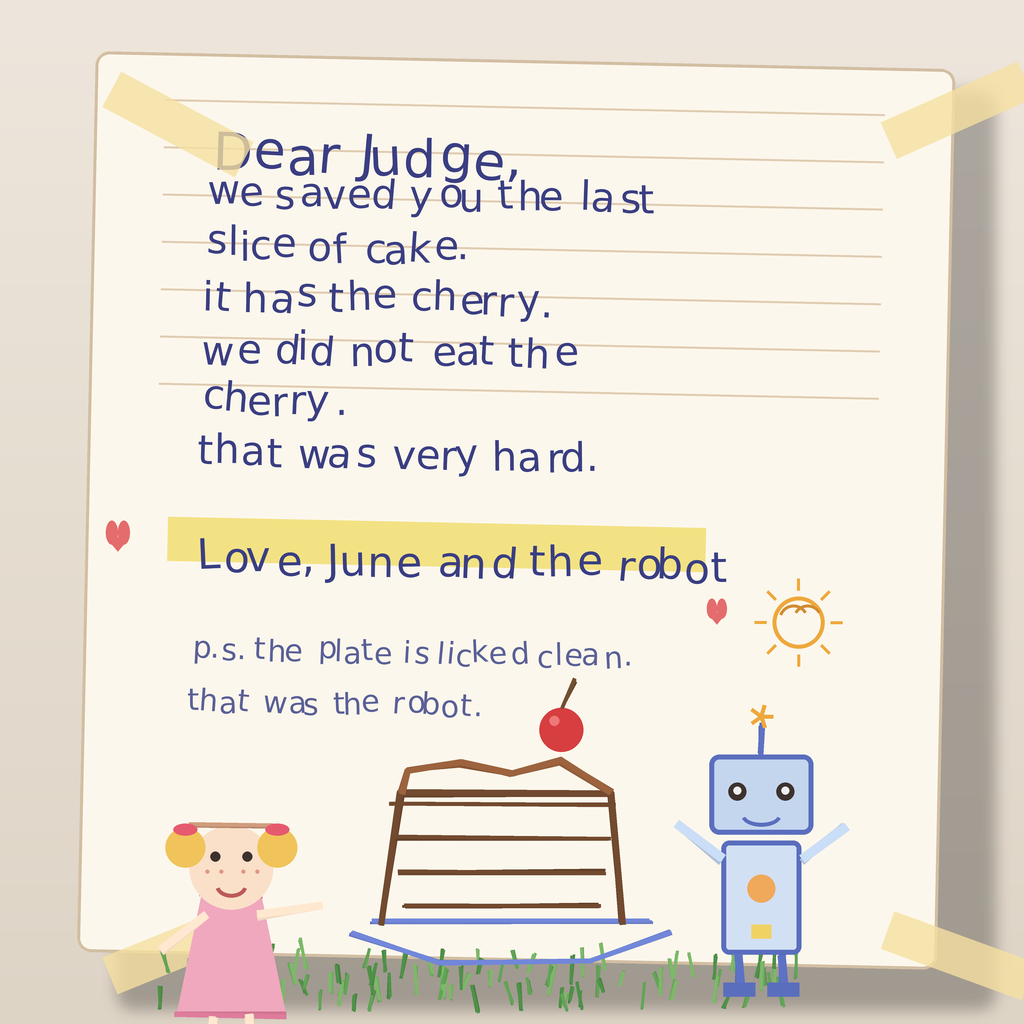
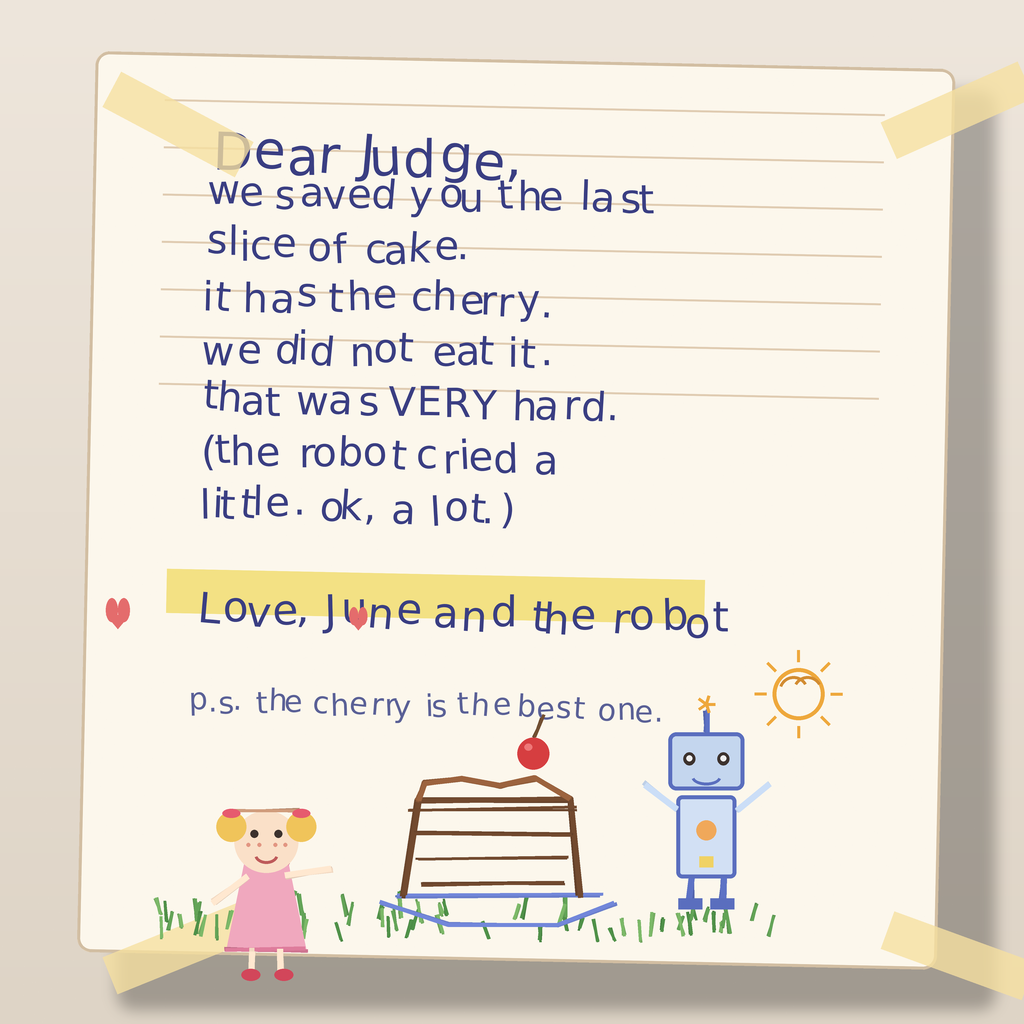
v7: tighter copy, robot cried, balanced band

Changed region(s): [[0.1562, 0.3125, 0.8438, 1.0], [0.0938, 0.5625, 0.125, 0.625], [0.0938, 0.5, 0.125, 0.5312]]

diff --git a/gen_entry.py b/gen_entry.py
@@ -93,18 +93,18 @@ hand_text(paper, (tx, ty), "Dear Judge,", 52 * S, ink)
 hand_text(paper, (tx, ty + lh), "we saved you the last", 40 * S, ink)
 hand_text(paper, (tx, ty + 2 * lh), "slice of cake.", 40 * S, ink)
 hand_text(paper, (tx, ty + 3 * lh), "it has the cherry.", 40 * S, ink)
-hand_text(paper, (tx, ty + 4 * lh), "we did not eat the", 40 * S, ink)
-hand_text(paper, (tx, ty + 5 * lh), "cherry.", 40 * S, ink)
-hand_text(paper, (tx, ty + 6 * lh), "that was very hard.", 40 * S, ink)
-sx, sy = tx, ty + 8 * lh
+hand_text(paper, (tx, ty + 4 * lh), "we did not eat it.", 40 * S, ink)
+hand_text(paper, (tx, ty + 5 * lh), "that was VERY hard.", 40 * S, ink)
+hand_text(paper, (tx, ty + 6 * lh), "(the robot cried a", 40 * S, ink)
+hand_text(paper, (tx, ty + 7 * lh), "little. ok, a lot.)", 40 * S, ink)
+sx, sy = tx, ty + 9 * lh
 f_sig = ImageFont.truetype(FONT_PATH, 42 * S)
 sig = "Love, June and the robot"
 hl = ImageDraw.Draw(paper)
 hl.rectangle([sx - 8 * S, sy + 8 * S, sx + f_sig.getlength(sig) + 14 * S, sy + 52 * S],
              fill=(255, 236, 130, 220))
 hand_text(paper, (sx, sy), sig, 42 * S, ink)
-hand_text(paper, (tx, ty + 10 * lh), "p.s. the plate is licked clean.", 30 * S, (90, 96, 150))
-hand_text(paper, (tx, ty + 11 * lh), "that was the robot.", 30 * S, (90, 96, 150))
+hand_text(paper, (tx, ty + 11 * lh), "p.s. the cherry is the best one.", 30 * S, (90, 96, 150))
 
 paper = paper.rotate(-1.2, resample=Image.BICUBIC, expand=True)
 px0, py0 = int(0.075 * WBig), int(0.05 * HBig)
@@ -127,14 +127,14 @@ for (tpx, tpy, ang) in [(int(0.10 * WBig), int(0.07 * HBig), -28),
 d = ImageDraw.Draw(img)
 
 # --- crayon drawing area (lower part of the paper) ---------------------------
-dy0 = int(0.565 * HBig)
+dy0 = int(0.635 * HBig)
 dcx = int(0.47 * WBig)
 
-# scribble grass
-for _ in range(90):
-    gx = dcx + rng.randint(-330, 330) * S
-    gy = dy0 + int(0.40 * HBig) + rng.randint(-20, 24) * S
-    crayon_line(d, [(gx, gy), (gx + rng.randint(-6, 6) * S, gy - rng.randint(14, 30) * S)],
+# scribble grass (inside the paper's lower band only)
+for _ in range(60):
+    gx = dcx + rng.randint(-320, 320) * S
+    gy = dy0 + int(0.27 * HBig) + rng.randint(-14, 16) * S
+    crayon_line(d, [(gx, gy), (gx + rng.randint(-6, 6) * S, gy - rng.randint(12, 24) * S)],
                 rng.choice([(96, 158, 84), (120, 178, 100), (76, 140, 70)]),
                 width=3, wobble=1.5)
 
@@ -150,84 +150,84 @@ for a in range(0, 360, 45):
            fill=(238, 168, 60), width=int(3 * S))
 
 # --- the cake: chunky chocolate slice with cherry ----------------------------
-ckx, cky = dcx + 20 * S, dy0 + int(0.22 * HBig)
-crayon_line(d, [(ckx - 150 * S, cky + 130 * S), (ckx - 60 * S, cky + 158 * S),
-                (ckx + 90 * S, cky + 158 * S), (ckx + 170 * S, cky + 128 * S)],
-            (110, 130, 210), width=5)
-crayon_line(d, [(ckx - 130 * S, cky + 118 * S), (ckx + 150 * S, cky + 118 * S)],
+ckx, cky = dcx + 10 * S, dy0 + int(0.155 * HBig)
+crayon_line(d, [(ckx - 110 * S, cky + 95 * S), (ckx - 44 * S, cky + 116 * S),
+                (ckx + 66 * S, cky + 116 * S), (ckx + 124 * S, cky + 94 * S)],
             (110, 130, 210), width=4)
-crayon_line(d, [(ckx - 120 * S, cky + 120 * S), (ckx - 100 * S, cky - 10 * S),
-                (ckx + 110 * S, cky - 10 * S), (ckx + 120 * S, cky + 120 * S)],
-            (110, 72, 46), width=6)
+crayon_line(d, [(ckx - 96 * S, cky + 87 * S), (ckx + 110 * S, cky + 87 * S)],
+            (110, 130, 210), width=3)
+crayon_line(d, [(ckx - 88 * S, cky + 88 * S), (ckx - 74 * S, cky - 8 * S),
+                (ckx + 80 * S, cky - 8 * S), (ckx + 88 * S, cky + 88 * S)],
+            (110, 72, 46), width=5)
 for ly in range(0, 4):
-    yy = cky + ly * 34 * S
-    crayon_line(d, [(ckx - 112 * S + ly * 5 * S, yy), (ckx + 114 * S - ly * 5 * S, yy)],
-                (110, 72, 46), width=4)
-crayon_line(d, [(ckx - 100 * S, cky - 10 * S), (ckx - 92 * S, cky - 34 * S),
-                (ckx - 40 * S, cky - 40 * S), (ckx + 10 * S, cky - 30 * S),
-                (ckx + 60 * S, cky - 42 * S), (ckx + 110 * S, cky - 12 * S)],
-            (150, 96, 60), width=6)
-chx, chy = ckx + 60 * S, cky - 74 * S
-d.ellipse([chx - 22 * S, chy - 22 * S, chx + 22 * S, chy + 22 * S], fill=(214, 62, 64))
-d.ellipse([chx - 12 * S, chy - 14 * S, chx - 2 * S, chy - 4 * S], fill=(238, 120, 120))
-crayon_line(d, [(chx, chy - 22 * S), (chx + 14 * S, chy - 50 * S)], (110, 76, 48), width=4)
+    yy = cky + ly * 25 * S
+    crayon_line(d, [(ckx - 82 * S + ly * 4 * S, yy), (ckx + 84 * S - ly * 4 * S, yy)],
+                (110, 72, 46), width=3)
+crayon_line(d, [(ckx - 74 * S, cky - 8 * S), (ckx - 68 * S, cky - 25 * S),
+                (ckx - 30 * S, cky - 30 * S), (ckx + 8 * S, cky - 22 * S),
+                (ckx + 44 * S, cky - 31 * S), (ckx + 80 * S, cky - 9 * S)],
+            (150, 96, 60), width=5)
+chx, chy = ckx + 42 * S, cky - 55 * S
+d.ellipse([chx - 16 * S, chy - 16 * S, chx + 16 * S, chy + 16 * S], fill=(214, 62, 64))
+d.ellipse([chx - 9 * S, chy - 10 * S, chx - 1 * S, chy - 3 * S], fill=(238, 120, 120))
+crayon_line(d, [(chx, chy - 16 * S), (chx + 10 * S, chy - 37 * S)], (110, 76, 48), width=3)
 
-# --- June, the kid, on the left ----------------------------------------------
-gx, gy = dcx - 250 * S, dy0 + int(0.30 * HBig)
-d.polygon([(gx - 55 * S, gy + 130 * S), (gx + 55 * S, gy + 130 * S),
-           (gx + 30 * S, gy + 10 * S), (gx - 30 * S, gy + 10 * S)],
+# --- June, the kid, on the left (smaller, fits the band) ----------------------
+gx, gy = dcx - 215 * S, dy0 + int(0.20 * HBig)
+d.polygon([(gx - 40 * S, gy + 95 * S), (gx + 40 * S, gy + 95 * S),
+           (gx + 22 * S, gy + 8 * S), (gx - 22 * S, gy + 8 * S)],
           fill=(240, 168, 190))
-crayon_line(d, [(gx - 55 * S, gy + 130 * S), (gx + 55 * S, gy + 130 * S)], (214, 120, 150), width=5)
-crayon_line(d, [(gx + 30 * S, gy + 10 * S), (gx - 30 * S, gy + 10 * S)], (214, 120, 150), width=4)
-d.ellipse([gx - 42 * S, gy - 60 * S, gx + 42 * S, gy + 24 * S], fill=(250, 224, 200))
-crayon_line(d, [(gx - 42 * S, gy - 60 * S), (gx + 42 * S, gy - 60 * S)], (200, 150, 120), width=4)
+crayon_line(d, [(gx - 40 * S, gy + 95 * S), (gx + 40 * S, gy + 95 * S)], (214, 120, 150), width=4)
+crayon_line(d, [(gx + 22 * S, gy + 8 * S), (gx - 22 * S, gy + 8 * S)], (214, 120, 150), width=3)
+d.ellipse([gx - 32 * S, gy - 44 * S, gx + 32 * S, gy + 18 * S], fill=(250, 224, 200))
+crayon_line(d, [(gx - 32 * S, gy - 44 * S), (gx + 32 * S, gy - 44 * S)], (200, 150, 120), width=3)
 for sx in (-1, 1):
-    px_ = gx + sx * 46 * S
-    d.ellipse([px_ - 20 * S, gy - 58 * S, px_ + 20 * S, gy - 18 * S], fill=(240, 196, 90))
-    d.ellipse([px_ - 12 * S, gy - 62 * S, px_ + 12 * S, gy - 50 * S], fill=(230, 90, 110))
+    px_ = gx + sx * 35 * S
+    d.ellipse([px_ - 15 * S, gy - 43 * S, px_ + 15 * S, gy - 13 * S], fill=(240, 196, 90))
+    d.ellipse([px_ - 9 * S, gy - 46 * S, px_ + 9 * S, gy - 37 * S], fill=(230, 90, 110))
 for sx in (-1, 1):
-    d.ellipse([gx + sx * 16 * S - 5 * S, gy - 34 * S, gx + sx * 16 * S + 5 * S, gy - 24 * S],
+    d.ellipse([gx + sx * 12 * S - 4 * S, gy - 25 * S, gx + sx * 12 * S + 4 * S, gy - 17 * S],
               fill=(60, 50, 46))
-for fx in (-24, -10, 12, 26):
-    d.ellipse([gx + fx * S - 2 * S, gy - 16 * S, gx + fx * S + 2 * S, gy - 12 * S],
+for fx in (-18, -7, 9, 19):
+    d.ellipse([gx + fx * S - 2 * S, gy - 12 * S, gx + fx * S + 2 * S, gy - 8 * S],
               fill=(226, 150, 130))
-d.arc([gx - 16 * S, gy - 12 * S, gx + 16 * S, gy + 12 * S], start=15, end=165,
-      fill=(190, 90, 90), width=int(4 * S))
-crayon_line(d, [(gx - 26 * S, gy + 30 * S), (gx - 70 * S, gy + 66 * S)], (250, 224, 200), width=8)
-crayon_line(d, [(gx + 26 * S, gy + 30 * S), (gx + 90 * S, gy + 20 * S)], (250, 224, 200), width=8)
-crayon_line(d, [(gx - 18 * S, gy + 130 * S), (gx - 22 * S, gy + 160 * S)], (250, 224, 200), width=8)
-crayon_line(d, [(gx + 18 * S, gy + 130 * S), (gx + 22 * S, gy + 160 * S)], (250, 224, 200), width=8)
-d.ellipse([gx - 34 * S, gy + 156 * S, gx - 8 * S, gy + 172 * S], fill=(210, 70, 90))
-d.ellipse([gx + 10 * S, gy + 156 * S, gx + 36 * S, gy + 172 * S], fill=(210, 70, 90))
+d.arc([gx - 12 * S, gy - 9 * S, gx + 12 * S, gy + 9 * S], start=15, end=165,
+      fill=(190, 90, 90), width=int(3 * S))
+crayon_line(d, [(gx - 20 * S, gy + 22 * S), (gx - 52 * S, gy + 48 * S)], (250, 224, 200), width=6)
+crayon_line(d, [(gx + 20 * S, gy + 22 * S), (gx + 66 * S, gy + 15 * S)], (250, 224, 200), width=6)
+crayon_line(d, [(gx - 13 * S, gy + 95 * S), (gx - 16 * S, gy + 117 * S)], (250, 224, 200), width=6)
+crayon_line(d, [(gx + 13 * S, gy + 95 * S), (gx + 16 * S, gy + 117 * S)], (250, 224, 200), width=6)
+d.ellipse([gx - 25 * S, gy + 114 * S, gx - 6 * S, gy + 126 * S], fill=(210, 70, 90))
+d.ellipse([gx + 8 * S, gy + 114 * S, gx + 27 * S, gy + 126 * S], fill=(210, 70, 90))
 
-# --- the robot, on the right ---------------------------------------------------
-rx, ry = dcx + 280 * S, dy0 + int(0.26 * HBig)
-crayon_line(d, [(rx, ry - 90 * S), (rx, ry - 120 * S)], (90, 110, 190), width=5)
+# --- the robot, on the right (smaller, fits the band) --------------------------
+rx, ry = dcx + 225 * S, dy0 + int(0.145 * HBig)
+crayon_line(d, [(rx, ry - 66 * S), (rx, ry - 88 * S)], (90, 110, 190), width=4)
 for a in range(0, 360, 72):
-    rr = 12 * S
-    d.line([(rx, ry - 128 * S), (rx + rr * math.cos(math.radians(a)), ry - 128 * S + rr * math.sin(math.radians(a)))],
-           fill=(238, 168, 60), width=int(4 * S))
-d.rounded_rectangle([rx - 52 * S, ry - 90 * S, rx + 52 * S, ry - 10 * S], radius=10 * S,
-                    fill=(196, 214, 238), outline=(90, 110, 190), width=int(5 * S))
+    rr = 9 * S
+    d.line([(rx, ry - 94 * S), (rx + rr * math.cos(math.radians(a)), ry - 94 * S + rr * math.sin(math.radians(a)))],
+           fill=(238, 168, 60), width=int(3 * S))
+d.rounded_rectangle([rx - 38 * S, ry - 66 * S, rx + 38 * S, ry - 8 * S], radius=8 * S,
+                    fill=(196, 214, 238), outline=(90, 110, 190), width=int(4 * S))
 for sx in (-1, 1):
-    ex = rx + sx * 24 * S
-    d.ellipse([ex - 9 * S, ry - 62 * S, ex + 9 * S, ry - 44 * S], fill=(60, 50, 46))
-    d.ellipse([ex - 4 * S, ry - 58 * S, ex + 4 * S, ry - 50 * S], fill=(240, 240, 240))
-d.arc([rx - 20 * S, ry - 40 * S, rx + 20 * S, ry - 18 * S], start=15, end=165,
-      fill=(90, 110, 190), width=int(4 * S))
-d.rounded_rectangle([rx - 40 * S, ry - 4 * S, rx + 40 * S, ry + 110 * S], radius=8 * S,
-                    fill=(210, 224, 244), outline=(90, 110, 190), width=int(5 * S))
-d.ellipse([rx - 14 * S, ry + 30 * S, rx + 14 * S, ry + 58 * S], fill=(240, 168, 90))
-d.rectangle([rx - 10 * S, ry + 80 * S, rx + 10 * S, ry + 94 * S], fill=(240, 210, 100))
-crayon_line(d, [(rx - 40 * S, ry + 16 * S), (rx - 84 * S, ry - 20 * S)], (196, 214, 238), width=9)
-crayon_line(d, [(rx + 40 * S, ry + 16 * S), (rx + 84 * S, ry - 20 * S)], (196, 214, 238), width=9)
-crayon_line(d, [(rx - 22 * S, ry + 110 * S), (rx - 22 * S, ry + 140 * S)], (90, 110, 190), width=8)
-crayon_line(d, [(rx + 22 * S, ry + 110 * S), (rx + 22 * S, ry + 140 * S)], (90, 110, 190), width=8)
-d.rectangle([rx - 38 * S, ry + 138 * S, rx - 6 * S, ry + 152 * S], fill=(90, 110, 190))
-d.rectangle([rx + 6 * S, ry + 138 * S, rx + 38 * S, ry + 152 * S], fill=(90, 110, 190))
+    ex = rx + sx * 17 * S
+    d.ellipse([ex - 6 * S, ry - 46 * S, ex + 6 * S, ry - 33 * S], fill=(60, 50, 46))
+    d.ellipse([ex - 3 * S, ry - 43 * S, ex + 3 * S, ry - 37 * S], fill=(240, 240, 240))
+d.arc([rx - 15 * S, ry - 30 * S, rx + 15 * S, ry - 13 * S], start=15, end=165,
+      fill=(90, 110, 190), width=int(3 * S))
+d.rounded_rectangle([rx - 30 * S, ry - 3 * S, rx + 30 * S, ry + 80 * S], radius=6 * S,
+                    fill=(210, 224, 244), outline=(90, 110, 190), width=int(4 * S))
+d.ellipse([rx - 10 * S, ry + 22 * S, rx + 10 * S, ry + 42 * S], fill=(240, 168, 90))
+d.rectangle([rx - 7 * S, ry + 58 * S, rx + 7 * S, ry + 69 * S], fill=(240, 210, 100))
+crayon_line(d, [(rx - 30 * S, ry + 12 * S), (rx - 62 * S, ry - 15 * S)], (196, 214, 238), width=6)
+crayon_line(d, [(rx + 30 * S, ry + 12 * S), (rx + 62 * S, ry - 15 * S)], (196, 214, 238), width=6)
+crayon_line(d, [(rx - 16 * S, ry + 80 * S), (rx - 16 * S, ry + 102 * S)], (90, 110, 190), width=6)
+crayon_line(d, [(rx + 16 * S, ry + 80 * S), (rx + 16 * S, ry + 102 * S)], (90, 110, 190), width=6)
+d.rectangle([rx - 28 * S, ry + 100 * S, rx - 4 * S, ry + 111 * S], fill=(90, 110, 190))
+d.rectangle([rx + 4 * S, ry + 100 * S, rx + 28 * S, ry + 111 * S], fill=(90, 110, 190))
 
 # --- crayon hearts (kept clear of all text) -----------------------------------
-for (hhx, hhy, hs) in [(int(0.115 * WBig), dy0 - 46 * S, 12), (int(0.70 * WBig), dy0 + 30 * S, 10)]:
+for (hhx, hhy, hs) in [(int(0.115 * WBig), dy0 - 40 * S, 12), (int(0.35 * WBig), dy0 - 34 * S, 9)]:
     d.ellipse([hhx - hs * S, hhy - hs * S, hhx, hhy + hs * S], fill=(228, 108, 108))
     d.ellipse([hhx, hhy - hs * S, hhx + hs * S, hhy + hs * S], fill=(228, 108, 108))
     d.polygon([(hhx - hs * S, hhy + hs * 0.4 * S), (hhx + hs * S, hhy + hs * 0.4 * S),
